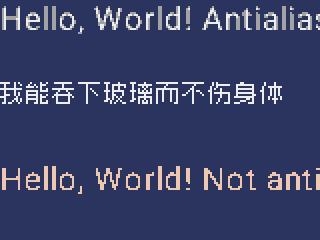
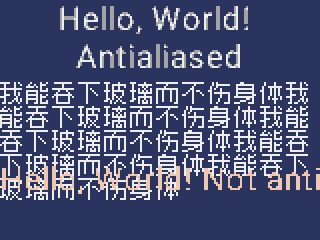
ok

diff --git a/README.md b/README.md
@@ -2,7 +2,7 @@
 
 > I am using this for my own game dev purposes, and this is beta-quality software.
 
-Fast TTF drawing for [Pyxel](https://github.com/kitao/pyxel), including support for antialiasing. This library is in the works to become a general purpose "bloated" set of extensions for Pyxel, but for now it only includes a font rendering extension.
+Fast TTF drawing for [Pyxel](https://github.com/kitao/pyxel), including support for layout (align, wrapping) and experimental support for anti-aliasing. This library is in the works to become a general purpose "bloated" set of extensions for Pyxel, but for now it only includes a font rendering extension.
 
 ![alt screenshot](demo/bare_screenshot.png)
 
